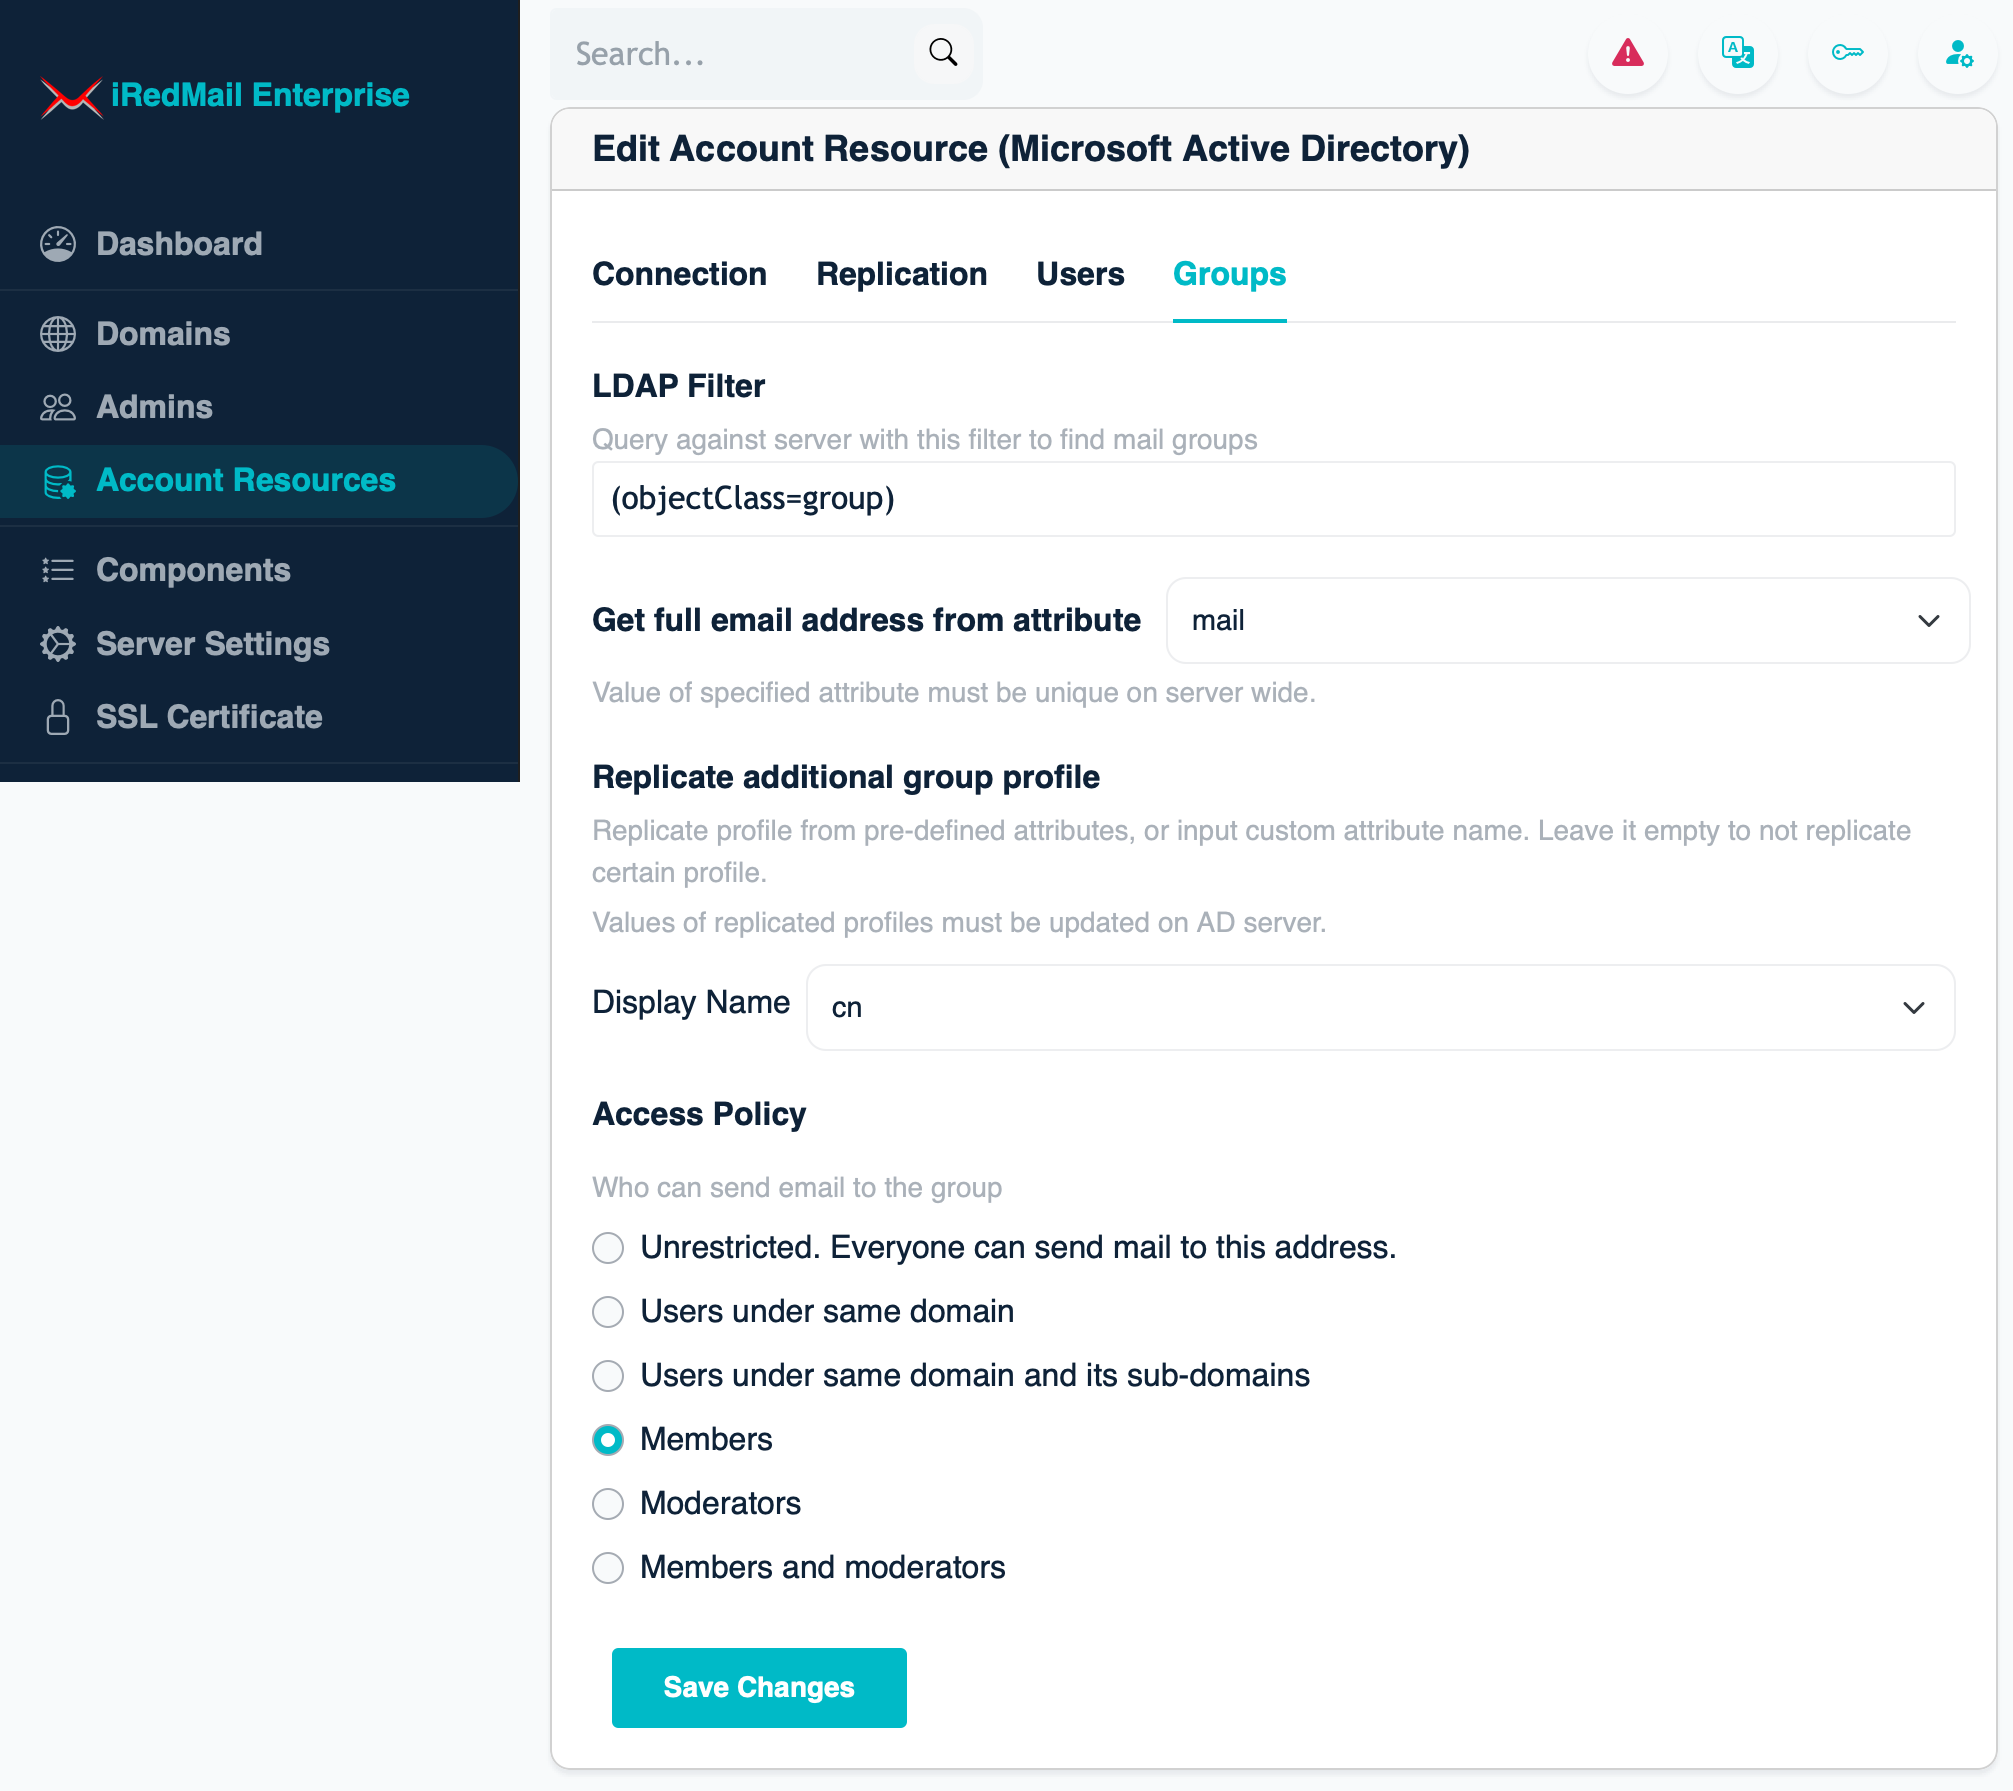
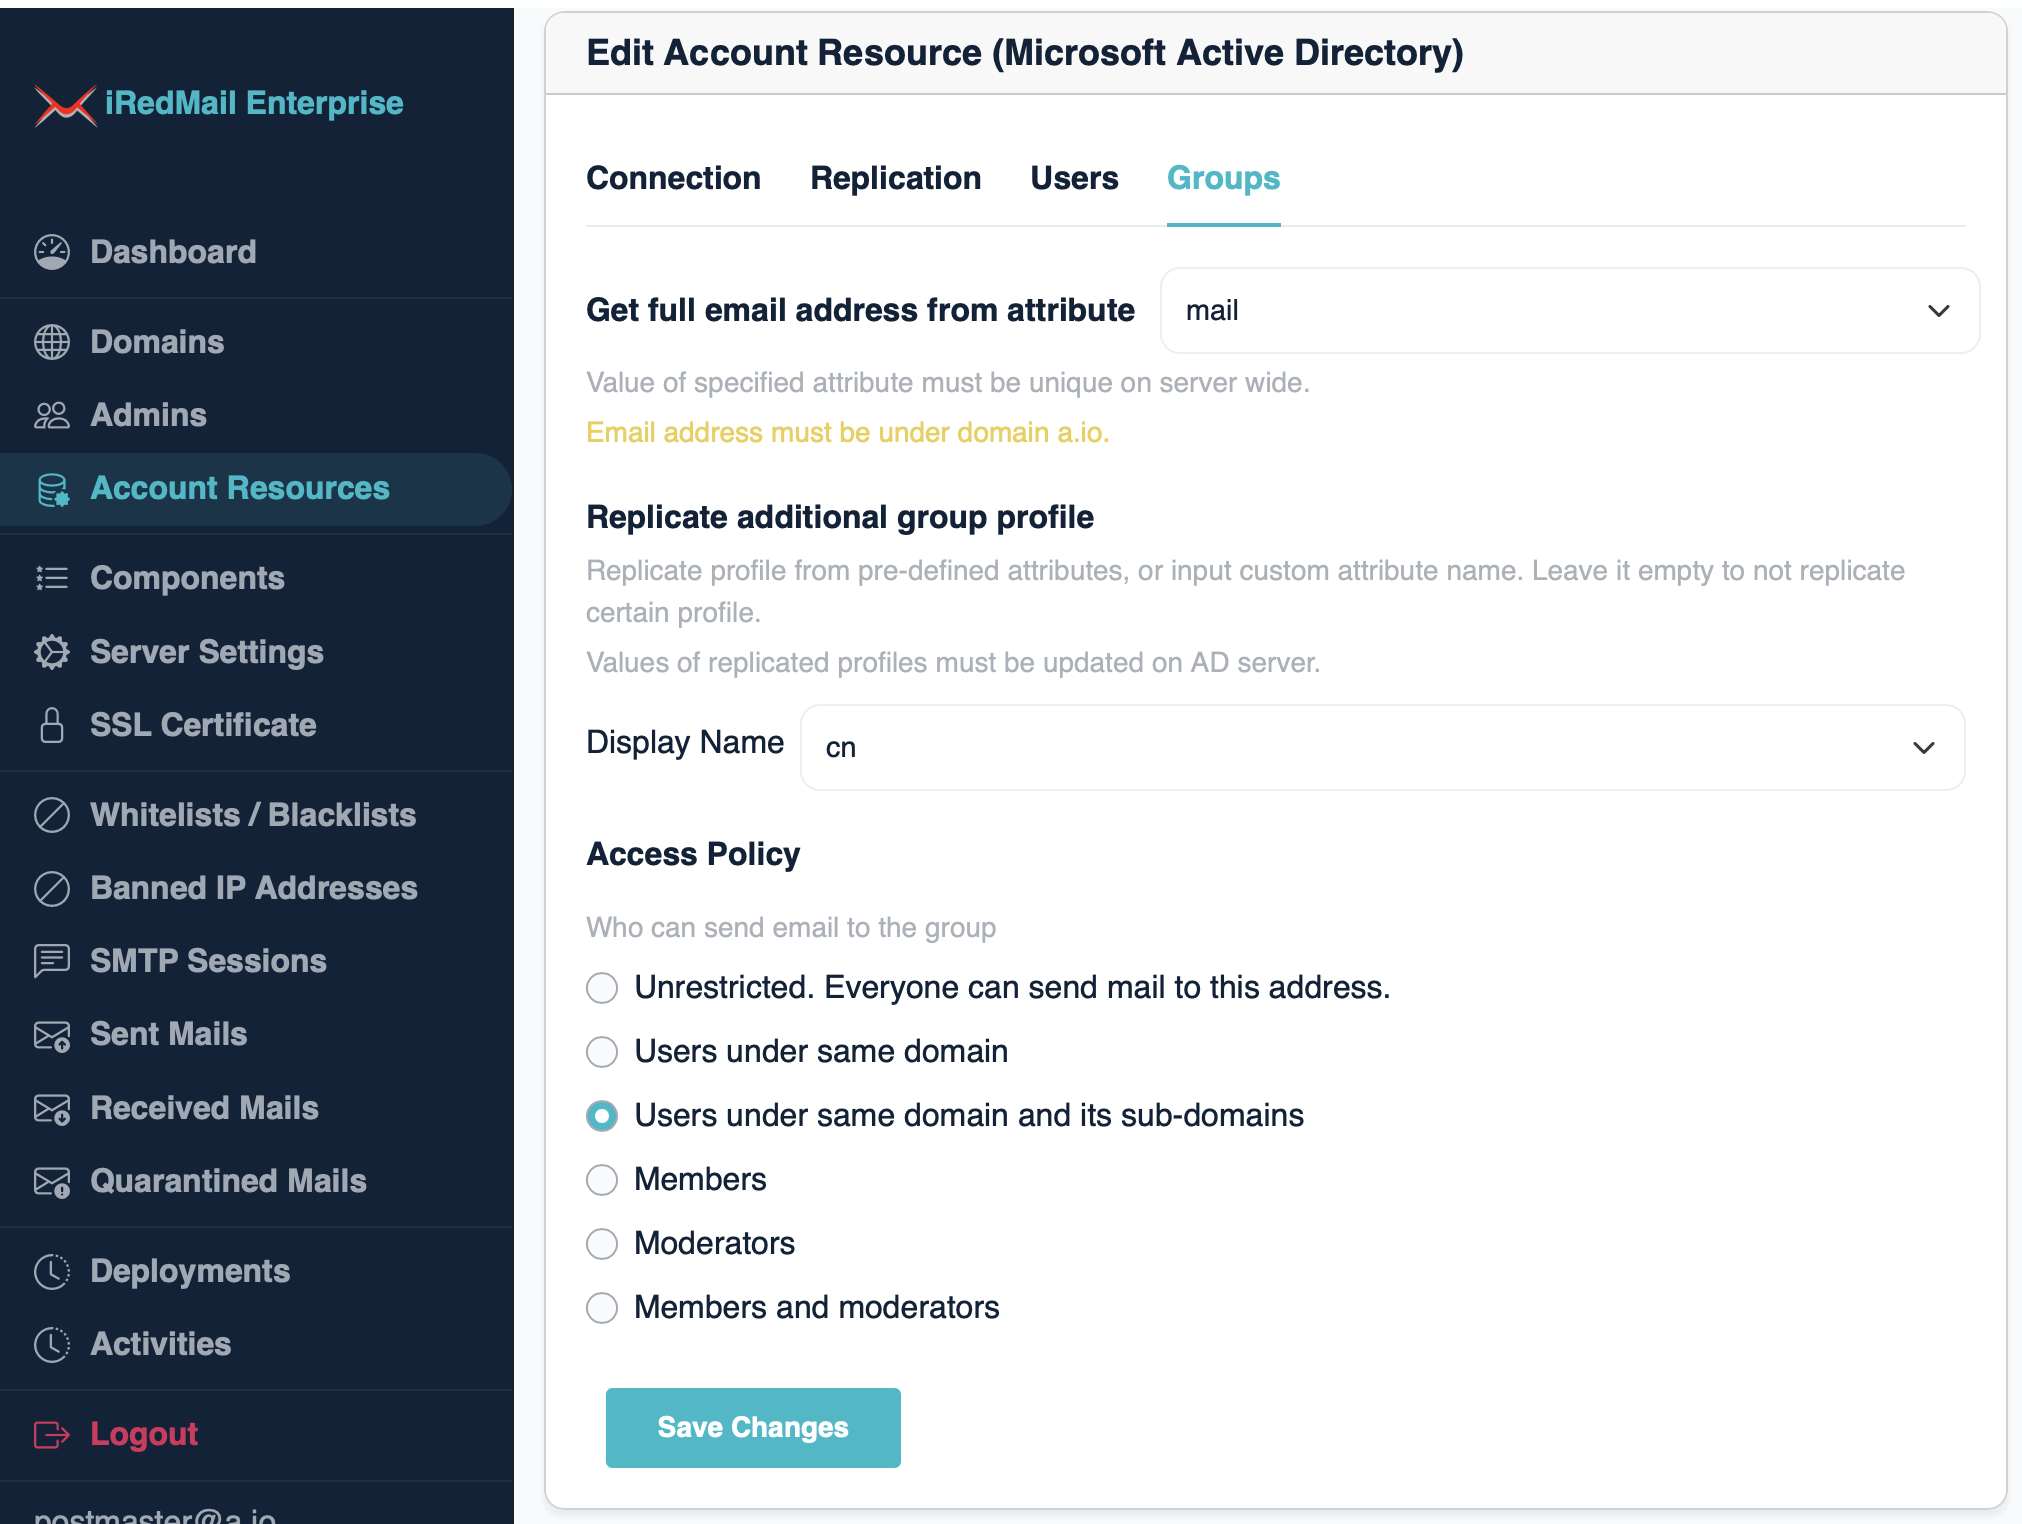
Update ee.ad.html.

diff --git a/html/ee.ad.html b/html/ee.ad.html
@@ -92,6 +92,10 @@ will redirect to replication management page.</p>
 <li><strong><code>Bind DN</code></strong>: The full LDAP dn used to login to AD. This bind dn is used to
   search all user / group accounts under base dn.</li>
 <li><strong><code>Bind Password</code></strong>: Password of the bind dn.</li>
+<li><strong><code>User Filter</code></strong>: The LDAP filter used to query against AD to find mail users.
+  Default is <code>(|(objectClass=user)(objectClass=person))</code>.</li>
+<li><strong><code>Group Filter</code></strong>: The LDAP filter used to query against AD to find mail groups.
+  Default is <code>(objectClass=group)</code>.</li>
 </ul>
 <p><img alt="" src="./images/ee/account-resource/ad-connection.png" width="800px" /></p>
 <p>After inputed all values, please click the <strong><code>Test connection</code></strong> link to
@@ -122,8 +126,6 @@ message. You can verify the retrieved attributes.</p>
 <p><img alt="" src="./images/ee/account-resource/ad-replication.png" width="800px" /></p>
 <p>Click <strong><code>Users</code></strong> tab:</p>
 <ul>
-<li><strong><code>LDAP Filter</code></strong>: The LDAP filter used to query against AD to find mail users.
-  Default is <code>(|(objectClass=user)(objectClass=person))</code>.</li>
 <li><strong><code>Get full email address from attribute</code></strong>: Set the LDAP attribute name which
   stores account's full email address on AD.<ul>
 <li>You can select from pre-defined attributes, or input your own one if the

diff --git a/en_US/ee/0-ee.ad.md b/en_US/ee/0-ee.ad.md
@@ -66,6 +66,10 @@ Fill AD server related settings under __`Connection`__ tab.
 - __`Bind DN`__: The full LDAP dn used to login to AD. This bind dn is used to
   search all user / group accounts under base dn.
 - __`Bind Password`__: Password of the bind dn.
+- __`User Filter`__: The LDAP filter used to query against AD to find mail users.
+  Default is `(|(objectClass=user)(objectClass=person))`.
+- __`Group Filter`__: The LDAP filter used to query against AD to find mail groups.
+  Default is `(objectClass=group)`.
 
 ![](./images/ee/account-resource/ad-connection.png){: width="800px" }
 
@@ -98,8 +102,6 @@ Click `Save Changes` if you made some changes.
 
 Click __`Users`__ tab:
 
-- __`LDAP Filter`__: The LDAP filter used to query against AD to find mail users.
-  Default is `(|(objectClass=user)(objectClass=person))`.
 - __`Get full email address from attribute`__: Set the LDAP attribute name which
   stores account's full email address on AD.
     - You can select from pre-defined attributes, or input your own one if the
